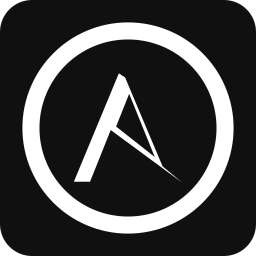
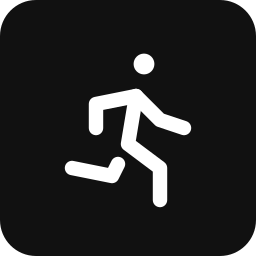
Rename the VS Code extension to Ansible Runner
The extension ID becomes sebgad.ansible-runner and the Ansible logo, a
Red Hat trademark, gives way to a Tabler running figure. Setting keys,
command IDs and the task type stay the same.

diff --git a/extension.js b/extension.js
@@ -1,5 +1,5 @@
 /**
- * Homelab — an Ansible sidebar for this repository.
+ * Ansible Runner — an Ansible sidebar for this repository.
  *
  * Playbooks, environments and vaults are discovered from the filesystem
  * (src/discovery.js), so no path, and in particular no environment name, is
@@ -175,7 +175,7 @@ async function runPlaybookCommand(context, argument, withOptions) {
   try {
     await runner.runPlaybook(folder, settings, { environment, playbookFile, options });
   } catch (err) {
-    vscode.window.showErrorMessage(`Homelab: could not run ${label}: ${messageOf(err)}`);
+    vscode.window.showErrorMessage(`Ansible Runner: could not run ${label}: ${messageOf(err)}`);
   }
 }
 
@@ -183,7 +183,7 @@ async function runPlaybookCommand(context, argument, withOptions) {
 async function rerunLast(context) {
   const last = parseLastRun(context.workspaceState.get(LAST_RUN_KEY));
   if (!last) {
-    vscode.window.showInformationMessage("Homelab: nothing has been run yet.");
+    vscode.window.showInformationMessage("Ansible Runner: nothing has been run yet.");
     return;
   }
 
@@ -191,7 +191,7 @@ async function rerunLast(context) {
     (item) => item.uri.fsPath === last.folderPath,
   );
   if (!folder) {
-    vscode.window.showErrorMessage("Homelab: the folder of the last run is no longer open.");
+    vscode.window.showErrorMessage("Ansible Runner: the folder of the last run is no longer open.");
     return;
   }
 
@@ -201,7 +201,7 @@ async function rerunLast(context) {
   );
   if (!environment) {
     vscode.window.showErrorMessage(
-      `Homelab: environment "${last.environmentName}" no longer exists.`,
+      `Ansible Runner: environment "${last.environmentName}" no longer exists.`,
     );
     return;
   }
@@ -219,7 +219,7 @@ async function rerunLast(context) {
       options: last.options,
     });
   } catch (err) {
-    vscode.window.showErrorMessage(`Homelab: could not run ${label}: ${messageOf(err)}`);
+    vscode.window.showErrorMessage(`Ansible Runner: could not run ${label}: ${messageOf(err)}`);
   }
 }
 
@@ -252,7 +252,7 @@ async function vaultCommand(argument, action) {
     runner.runVaultCommand(folder, settings, { environment, vaultFile, action });
   } catch (err) {
     vscode.window.showErrorMessage(
-      `Homelab: could not ${action} the vault: ${messageOf(err)}`,
+      `Ansible Runner: could not ${action} the vault: ${messageOf(err)}`,
     );
   }
 }
@@ -281,7 +281,7 @@ async function rekeyVaultsCommand(argument) {
     .map((group) => group.vaultFile);
   if (!vaultFiles.length) {
     vscode.window.showErrorMessage(
-      `Homelab: no ${settings.vaultFileName} in ${environment.name} to rekey.`,
+      `Ansible Runner: no ${settings.vaultFileName} in ${environment.name} to rekey.`,
     );
     return;
   }
@@ -303,7 +303,7 @@ async function rekeyVaultsCommand(argument) {
     runner.runVaultRekey(folder, settings, { environment, vaultFiles });
   } catch (err) {
     vscode.window.showErrorMessage(
-      `Homelab: could not rekey the vaults of ${environment.name}: ${messageOf(err)}`,
+      `Ansible Runner: could not rekey the vaults of ${environment.name}: ${messageOf(err)}`,
     );
   }
 }
@@ -321,7 +321,7 @@ async function openFile(argument, key) {
     const document = await vscode.workspace.openTextDocument(vscode.Uri.file(file));
     await vscode.window.showTextDocument(document);
   } catch (err) {
-    vscode.window.showErrorMessage(`Homelab: could not open ${file}: ${messageOf(err)}`);
+    vscode.window.showErrorMessage(`Ansible Runner: could not open ${file}: ${messageOf(err)}`);
   }
 }
 
@@ -356,14 +356,14 @@ async function createServiceSkeleton(argument, refresh) {
   try {
     plan = scaffold.planService(root, name, settings);
   } catch (err) {
-    vscode.window.showErrorMessage(`Homelab: ${messageOf(err)}`);
+    vscode.window.showErrorMessage(`Ansible Runner: ${messageOf(err)}`);
     return;
   }
 
   const missing = plan.entries.filter((entry) => !entry.exists);
   if (!missing.length) {
     vscode.window.showInformationMessage(
-      `Homelab: ${plan.name} already has every directory; nothing to create.`,
+      `Ansible Runner: ${plan.name} already has every directory; nothing to create.`,
     );
     return;
   }
@@ -387,11 +387,11 @@ async function createServiceSkeleton(argument, refresh) {
     const { created } = scaffold.createSkeleton(plan);
     refresh();
     vscode.window.showInformationMessage(
-      `Homelab: created ${created.length} ${created.length === 1 ? "entry" : "entries"} for ${plan.name}.`,
+      `Ansible Runner: created ${created.length} ${created.length === 1 ? "entry" : "entries"} for ${plan.name}.`,
     );
   } catch (err) {
     vscode.window.showErrorMessage(
-      `Homelab: could not create the skeleton for ${plan.name}: ${messageOf(err)}`,
+      `Ansible Runner: could not create the skeleton for ${plan.name}: ${messageOf(err)}`,
     );
   }
 }

diff --git a/src/pickers.js b/src/pickers.js
@@ -20,7 +20,7 @@ const { buildTagChoices, formatTagList, parseTagList } = require("./tags");
 async function pickFolder() {
   const folders = vscode.workspace.workspaceFolders || [];
   if (!folders.length) {
-    vscode.window.showErrorMessage("Homelab: no folder is open.");
+    vscode.window.showErrorMessage("Ansible Runner: no folder is open.");
     return undefined;
   }
   if (folders.length === 1) {
@@ -41,7 +41,7 @@ async function pickEnvironment(folder, settings) {
   const environments = findEnvironments(folder.uri.fsPath, settings);
   if (!environments.length) {
     vscode.window.showErrorMessage(
-      `Homelab: no environment with a ${settings.inventoryFile} under ${settings.inventoriesDir}/.`,
+      `Ansible Runner: no environment with a ${settings.inventoryFile} under ${settings.inventoriesDir}/.`,
     );
     return undefined;
   }
@@ -72,7 +72,7 @@ async function pickPlaybook(folder, settings) {
   const groups = findPlaybooks(folder.uri.fsPath, settings);
   if (!groups.length) {
     vscode.window.showErrorMessage(
-      `Homelab: no playbooks found under ${settings.playbooksDir}/.`,
+      `Ansible Runner: no playbooks found under ${settings.playbooksDir}/.`,
     );
     return undefined;
   }
@@ -118,8 +118,8 @@ async function pickVaultGroup(environment, settings, action) {
   if (!groups.length) {
     vscode.window.showErrorMessage(
       action === "edit"
-        ? `Homelab: no ${settings.vaultFileName} in ${environment.name}.`
-        : `Homelab: every group in ${environment.name} already has a ${settings.vaultFileName}.`,
+        ? `Ansible Runner: no ${settings.vaultFileName} in ${environment.name}.`
+        : `Ansible Runner: every group in ${environment.name} already has a ${settings.vaultFileName}.`,
     );
     return undefined;
   }

diff --git a/src/settings.js b/src/settings.js
@@ -92,7 +92,7 @@ function productionPattern(settings) {
   const { pattern, error } = paths.compileProductionPattern(settings.productionPattern);
   if (error) {
     vscode.window.showWarningMessage(
-      `Homelab: homelab.productionPattern is not a valid regular expression (${error}). No environment will be treated as production.`,
+      `Ansible Runner: homelab.productionPattern is not a valid regular expression (${error}). No environment will be treated as production.`,
     );
   }
   return pattern;

diff --git a/src/runner.js b/src/runner.js
@@ -78,7 +78,7 @@ function runPlaybook(folder, settings, request) {
     { type: "homelab", environment: request.environment.name, playbook },
     folder,
     `${request.environment.name}: ${label}`,
-    "Homelab",
+    "Ansible Runner",
     execution,
   );
 

diff --git a/src/tree.js b/src/tree.js
@@ -1,5 +1,5 @@
 /**
- * The Homelab sidebar tree.
+ * The Ansible Runner sidebar tree.
  *
  *   <environment>          production, staging, …
  *     <service>            playbooks/<name> joined with group_vars/<name>

diff --git a/README.md b/README.md
@@ -1,4 +1,4 @@
-# Homelab
+# Ansible Runner
 
 A VS Code sidebar for running this repository's Ansible playbooks and editing
 its vaults. Environments, playbooks and vaults are **discovered from the
@@ -14,7 +14,7 @@ one `env.yml` and one `vault.yml`, so those are rows that act on click rather
 than folders to open.
 
 ```
-Homelab (activity bar)
+Ansible Runner (activity bar)
 ├── production                       ← red: matches homelab.productionPattern
 │   ├── authentik               1
 │   │   ├── Playbooks           1
@@ -61,7 +61,7 @@ Homelab (activity bar)
   at a time, because the passphrase is per environment.
 * Production rows are red and ask for confirmation before running
   (`homelab.confirmProduction`).
-* The command palette offers the same thing without the tree: *Homelab: Run
+* The command palette offers the same thing without the tree: *Ansible Runner: Run
   Playbook* walks environment → service → playbook as QuickPicks, which is the
   flow the old `run-ansible-playbooks.sh` had with `read -p`.
 
@@ -95,7 +95,7 @@ straight there.
 
 ## Rotating vault passphrases
 
-*Homelab: Rekey Vaults…*, or the same command on an environment's context menu,
+*Ansible Runner: Rekey Vaults…*, or the same command on an environment's context menu,
 hands every `vault.yml` in that environment to one `ansible-vault rekey`. It
 asks once for the current passphrase and twice for the new one; production asks
 to confirm a second time.
@@ -117,7 +117,7 @@ Two things the confirmation says, because both are easy to get wrong:
 
 ## Adding a service
 
-*Homelab: Create Service Skeleton…* (the ＋ folder button in the view title)
+*Ansible Runner: Create Service Skeleton…* (the ＋ folder button in the view title)
 asks for a name and lays out the directories a service consists of:
 
 ```
@@ -210,15 +210,15 @@ Two ways to install it:
 ```bash
 cd scripts/vscode-extension
 npm install          # dev tooling only; the extension itself has no dependencies
-npm run package      # -> dist/homelab-tasks-<version>.vsix
-code --install-extension dist/homelab-tasks-0.4.0.vsix
+npm run package      # -> dist/ansible-runner-<version>.vsix
+code --install-extension dist/ansible-runner-0.4.0.vsix
 ```
 
 **As a symlink**, if you would rather have `git pull` be the update mechanism:
 
 ```bash
 ln -s ~/Programmierprojekte/homelab-infra/scripts/vscode-extension \
-      ~/.vscode/extensions/homelab-tasks-0.4.0
+      ~/.vscode/extensions/ansible-runner-0.4.0
 ```
 
 An existing symlink from an older version keeps working; VS Code reads
@@ -281,7 +281,7 @@ npm run check     # lint + typecheck + tests, the one to run before committing
 npm run lint      # eslint
 npm run typecheck # tsc over the JSDoc types; nothing is emitted
 npm test          # node --test
-npm run package   # dist/homelab-tasks-<version>.vsix
+npm run package   # dist/ansible-runner-<version>.vsix
 ```
 
 Types are JSDoc, checked with `tsc --noEmit` under `strict`; there is no

diff --git a/CHANGELOG.md b/CHANGELOG.md
@@ -1,5 +1,20 @@
 # Changelog
 
+## Unreleased
+
+* Renamed from *Homelab* (`homelab-tasks`) to *Ansible Runner*
+  (`ansible-runner`): the activity bar, the command palette category, the task
+  source and the prefix of every notification. The extension ID is now
+  `sebgad.ansible-runner`, so a `.vsix` install of the old one has to be
+  uninstalled by hand, and the last run and remembered run options — kept per
+  extension ID — start empty once.
+* Setting keys (`homelab.*`, `homelabTasks.*`), command IDs, the view ID and
+  the `homelab` task type are unchanged, so existing settings, keybindings and
+  `tasks.json` entries keep working.
+* New icon: the running figure from [Tabler Icons](https://tabler.io/icons)
+  (MIT), replacing the Ansible logo, which is a Red Hat trademark.
+  `media/icon.svg` is the source of `media/icon.png`.
+
 ## 0.4.0
 
 * Playbook rows expand into their tags — the same list `⚙ → Tags` offers,
